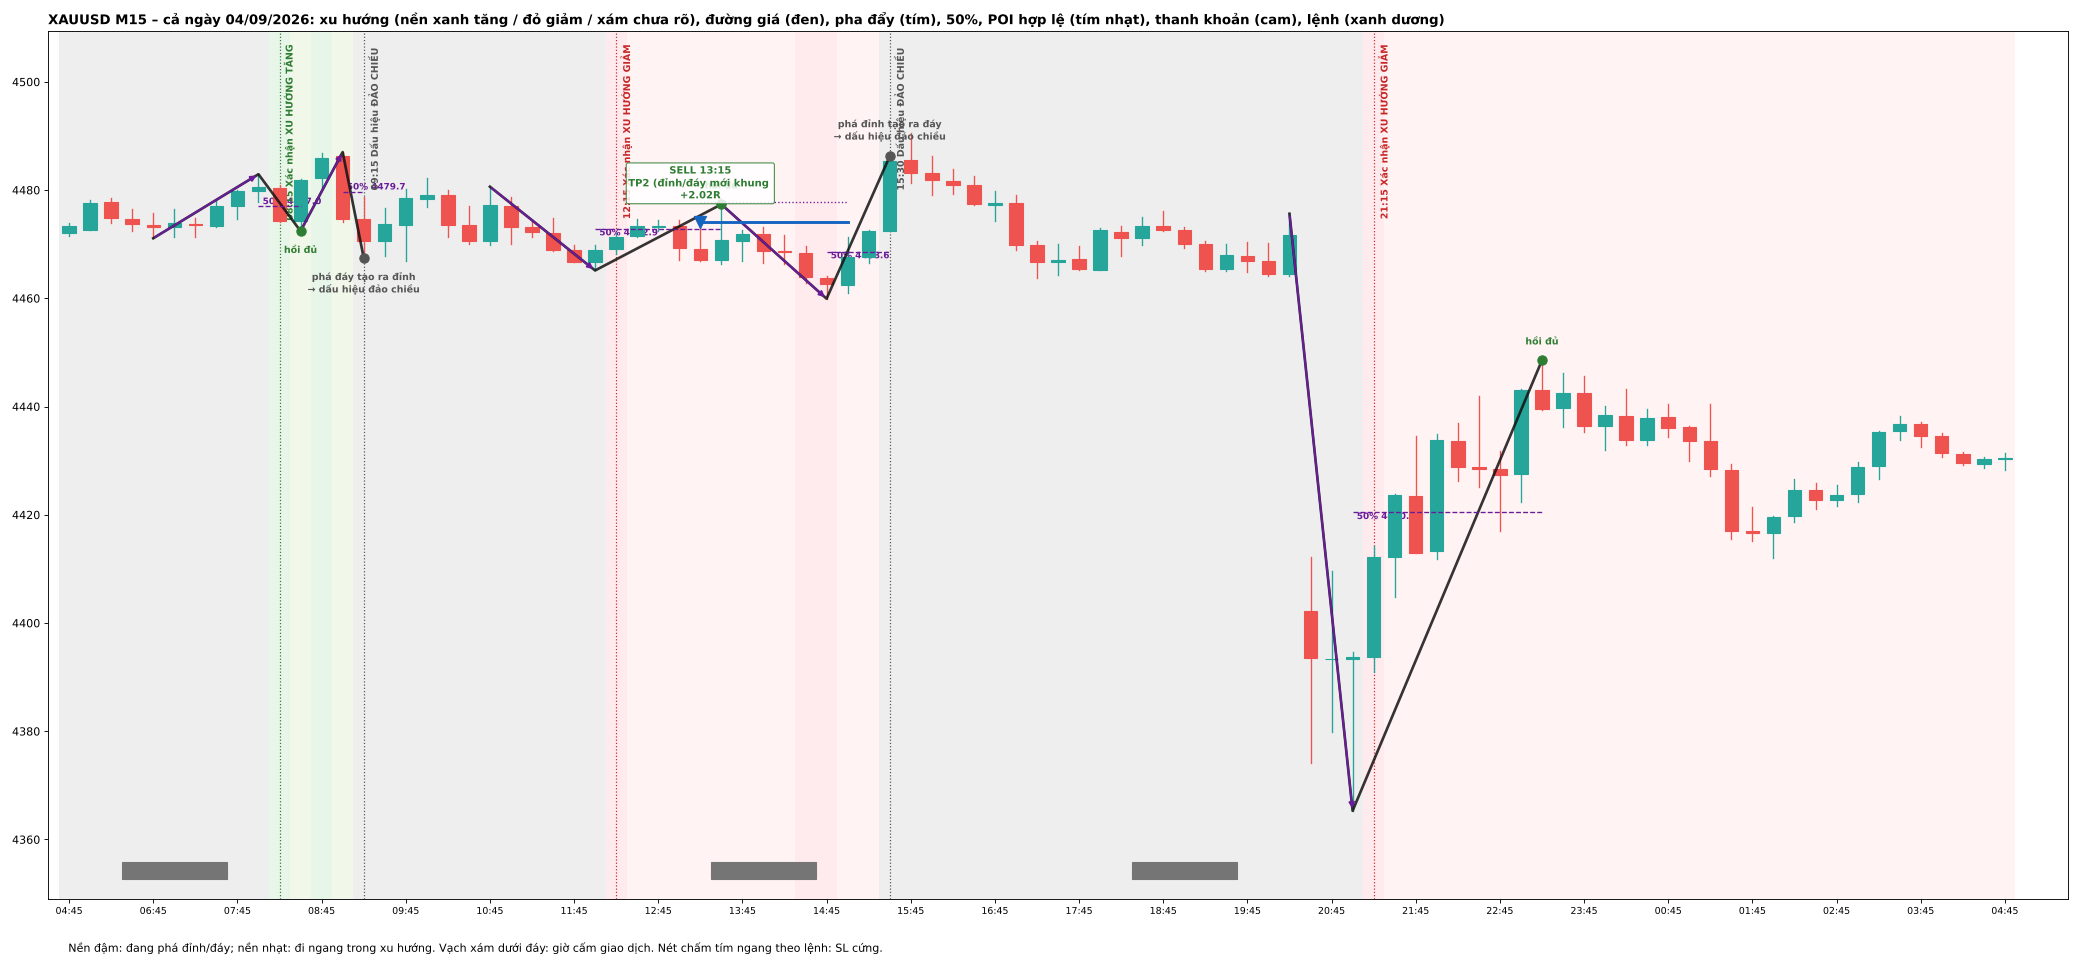
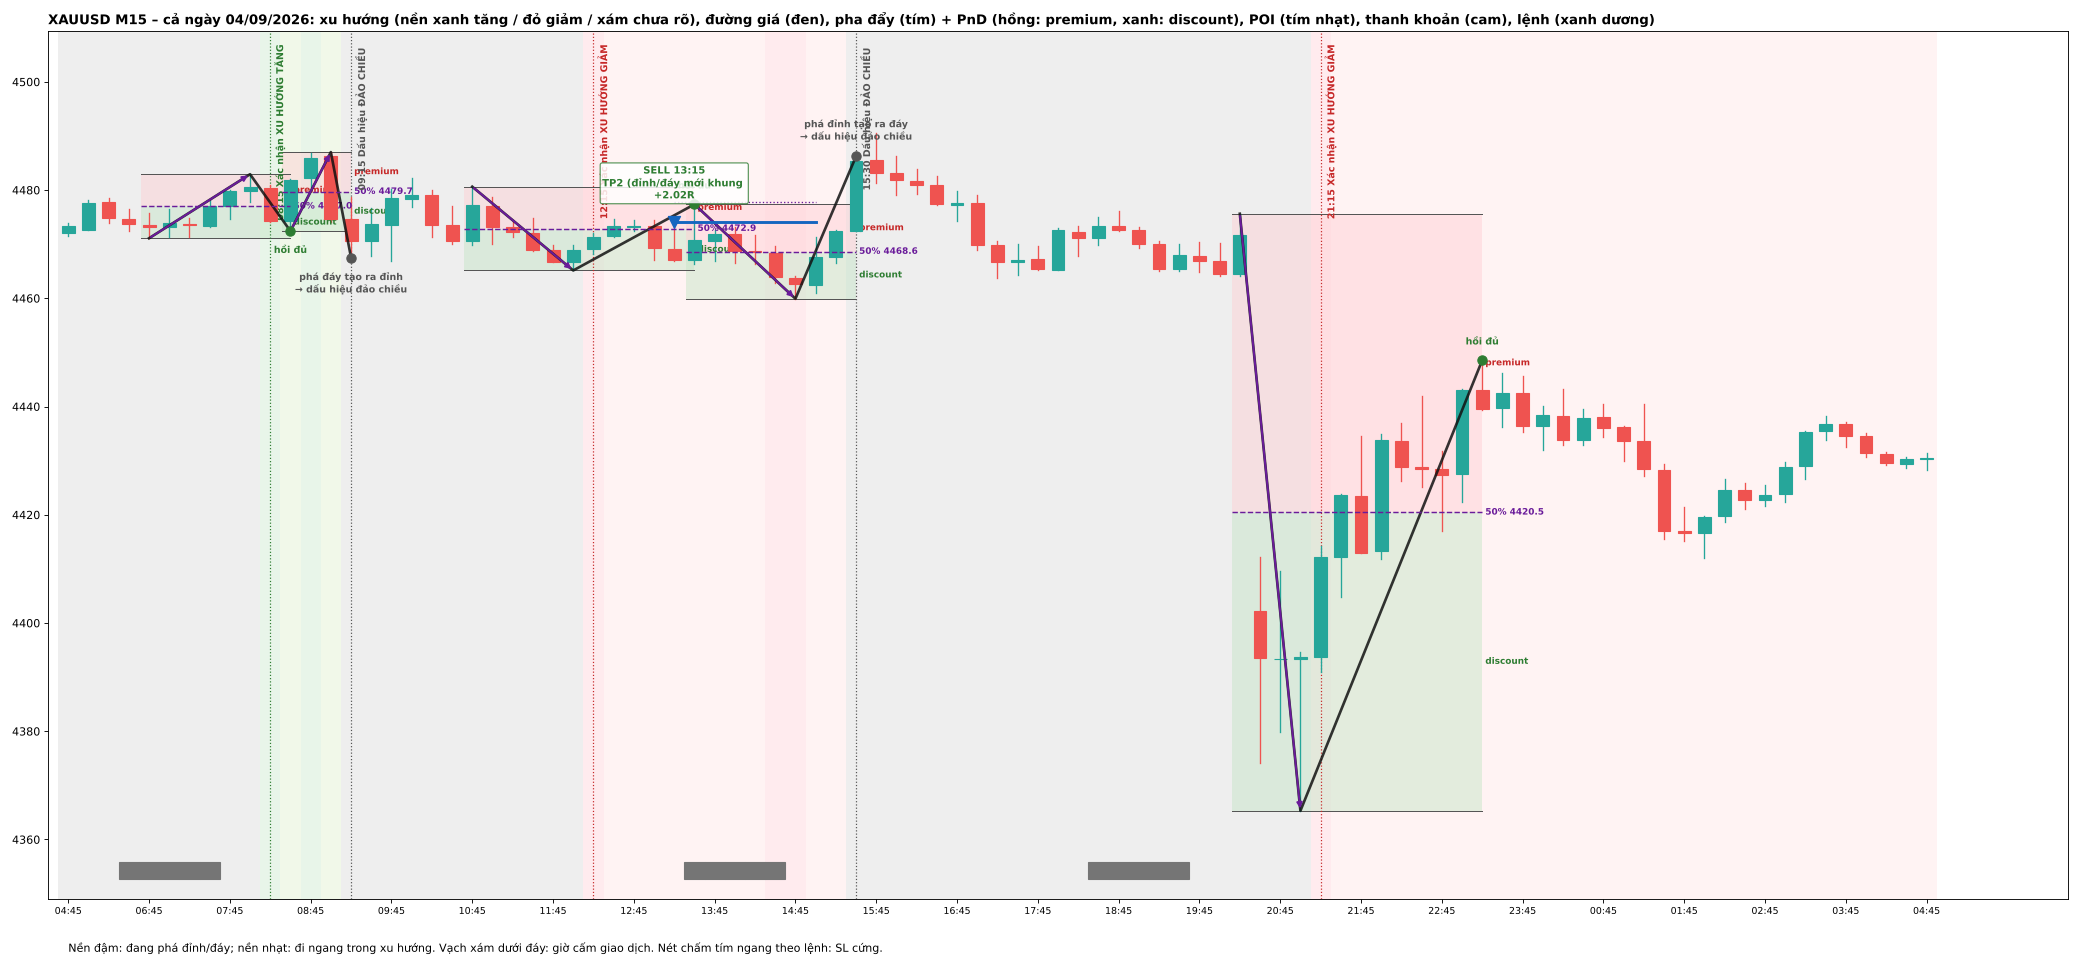
Vẽ PnD từ đỉnh tới đáy của từng pha đẩy (premium/discount); vẽ lại 3 ngày
Claude-Session: https://claude.ai/code/session_01QDQqkxbAsnss6apbWZAP33

diff --git a/tools/ve_ca_ngay.py b/tools/ve_ca_ngay.py
@@ -62,8 +62,16 @@ for sg in segs:
         ax.annotate("", xy=(bi, bp), xytext=(ai, ap), arrowprops=dict(arrowstyle="-|>", color="#6a1b9a", lw=1.8), zorder=6)
         nxt = pts[q + 2] if q + 2 < len(pts) else None
         xe = nxt[0] if nxt else n
-        ax.plot([bi, xe], [mid, mid], color="#6a1b9a", ls="--", lw=1.2, zorder=5)
-        ax.text(bi + .2, mid, f"50% {mid:.1f}", fontsize=8, color="#6a1b9a", va="bottom" if up else "top", fontweight="bold")
+        # PnD: vẽ từ đỉnh tới đáy của pha đẩy, kéo dài suốt pha hồi
+        hi_, lo_ = max(ap, bp), min(ap, bp); x0 = min(ai, bi) - .4
+        ax.add_patch(plt.Rectangle((x0, mid), xe - x0, hi_ - mid, color="#ffcdd2", alpha=.45, zorder=1, lw=0))
+        ax.add_patch(plt.Rectangle((x0, lo_), xe - x0, mid - lo_, color="#c8e6c9", alpha=.5, zorder=1, lw=0))
+        for yy in (hi_, lo_):
+            ax.plot([x0, xe], [yy, yy], color="#555", lw=.9, zorder=2)
+        ax.plot([x0, xe], [mid, mid], color="#6a1b9a", ls="--", lw=1.3, zorder=5)
+        ax.text(xe, mid, f" 50% {mid:.1f}", fontsize=8, color="#6a1b9a", va="center", fontweight="bold")
+        ax.text(xe, (hi_ + mid) / 2, " premium", fontsize=8, color="#c62828", va="center", fontweight="bold")
+        ax.text(xe, (lo_ + mid) / 2, " discount", fontsize=8, color="#2e7d32", va="center", fontweight="bold")
         # POI hợp lệ trong pha đẩy
         A = seg if up else bt.neg(seg); sgn = 1 if up else -1
         for i in range(min(ai, bi), max(ai, bi) + 1):
@@ -105,9 +113,9 @@ for i, x in enumerate(seg):
     if bt.blocked(x.t):
         ax.add_patch(plt.Rectangle((i - .5, LO - RG * .1), 1, RG * .025, color="#757575", zorder=2))
 ticks = list(range(0, n, 4)); ax.set_xticks(ticks); ax.set_xticklabels([seg[i].t[11:] for i in ticks], fontsize=8.5)
-ax.set_xlim(-1, n + 2); ax.set_ylim(LO - RG * .13, HI + RG * .15)
+ax.set_xlim(-1, n + 6); ax.set_ylim(LO - RG * .13, HI + RG * .15)
 ax.set_title(f"XAUUSD M15 – cả ngày {seg[1].t[8:10]}/{seg[1].t[5:7]}/{seg[1].t[:4]}: xu hướng (nền xanh tăng / đỏ giảm / xám chưa rõ), "
-             "đường giá (đen), pha đẩy (tím), 50%, POI hợp lệ (tím nhạt), thanh khoản (cam), lệnh (xanh dương)", loc="left", fontsize=12, fontweight="bold")
+             "đường giá (đen), pha đẩy (tím) + PnD (hồng: premium, xanh: discount), POI (tím nhạt), thanh khoản (cam), lệnh (xanh dương)", loc="left", fontsize=12, fontweight="bold")
 ax.text(.01, -.05, "Nền đậm: đang phá đỉnh/đáy; nền nhạt: đi ngang trong xu hướng. Vạch xám dưới đáy: giờ cấm giao dịch. Nét chấm tím ngang theo lệnh: SL cứng.",
         transform=ax.transAxes, va="top", fontsize=10)
 plt.tight_layout(); out = f"backtest/ca-ngay-{DAY}.png"; plt.savefig(out, dpi=80); print(out)
